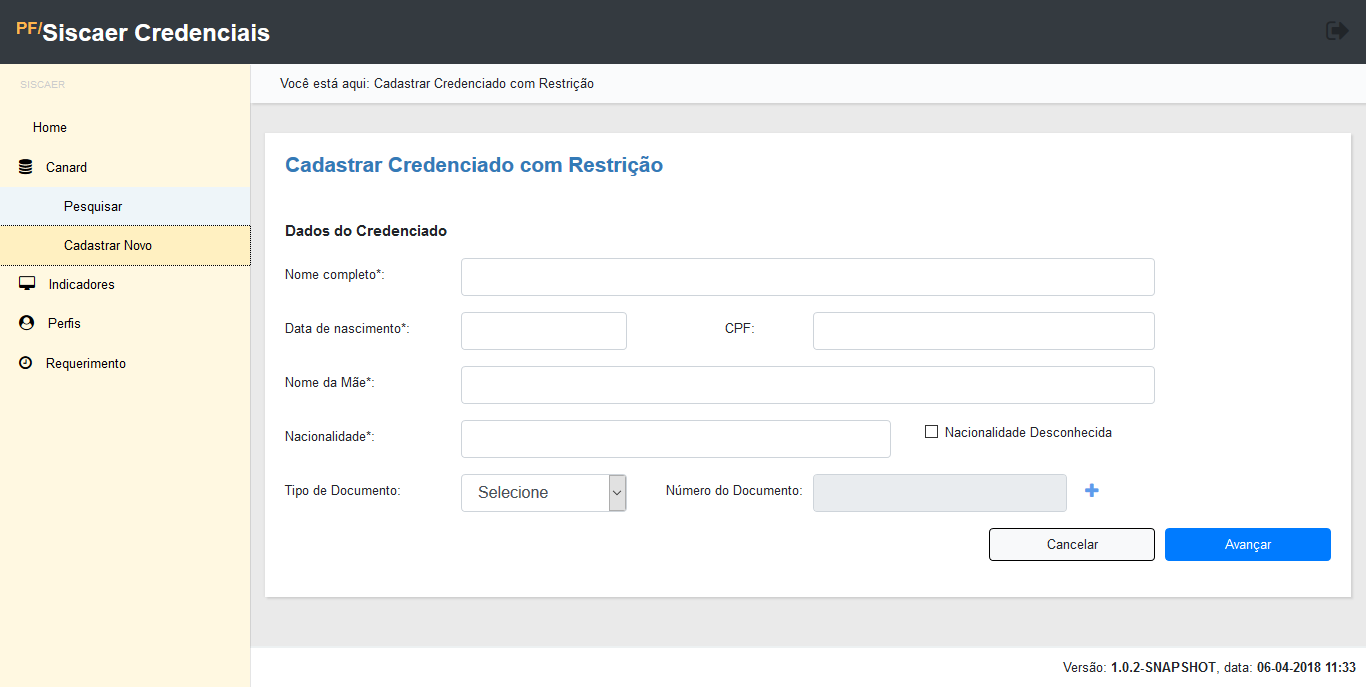
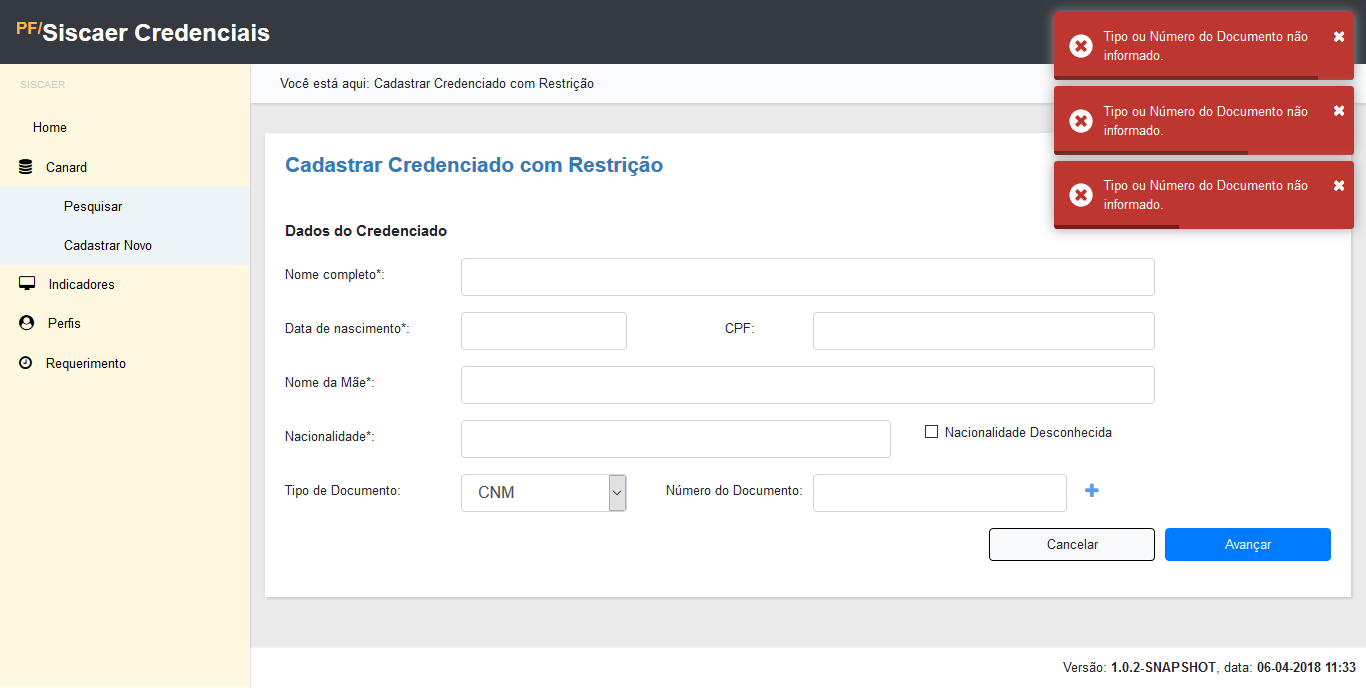
#Automacao de Testes - #Login - #Pesquisar - #Construcao Cadastrar - #versao 1.0.2

Changed region(s): [[0.7687, 0.0, 1.0, 0.3333], [0.0, 0.303, 0.1845, 0.3939], [0.3382, 0.697, 0.3997, 0.7273]]

diff --git a/logs/features.html b/logs/features.html
@@ -467,18 +467,5 @@ function makeRed(element_id) {
 function makeYellow(element_id) {
   $('#'+element_id).css('background', '#FAF834');
   $('#'+element_id).css('color', '#000000');
-}</script></head><body><!-- Step count 0--><div class="cucumber"><div id="cucumber-header"><div id="label"><h1>Cucumber Features</h1></div><div id="summary"><p id="totals"></p><p id="duration"></p><div id="expand-collapse"><p id="expander">Expand All</p><p id="collapser">Collapse All</p></div></div></div><div class="feature"><pre class="comment"># language: pt<br/></pre><span class="tag">@logout</span> <span class="tag">@login</span><h2><span class="val">Funcionalidade: Cadastrar</span></h2><p class="narrative"></p><div class="background"><h3 id="background_0"><span class="keyword">Contexto</span> <span class="val">Sistema Logado</span></h3><ol><li id='' class='step passed'><div class="step_name"><span class="keyword">Dado </span><span class="step val">que eu estou logado como <span class="param">&quot;juliana.jp&quot;</span> e <span class="param">&#39;ctidpf&#39;</span></span></div><div class="step_file"><span>features/step_definitions/visualizar_dados.rb:1</span></div></li> <script type="text/javascript">moveProgressBar('100.0');</script></ol></div><div class='scenario'><span class="tag">@cadastrar</span><span class="scenario_file">features/specs/cadastrar.feature:12</span><h3 id="scenario_1"><span class="keyword">Cenario:</span> <span class="val">Cadastrar candidatos no Canard</span></h3><ol><li id='' class='step passed'><div class="step_name"><span class="keyword">Quando </span><span class="step val">eu estou no formulario cadastro</span></div><div class="step_file"><span>features/step_definitions/cadastrar.rb:1</span></div></li><li class="step message">Deu bom ....</li> <script type="text/javascript">moveProgressBar('100.0');</script><span class="embed"><a href="" onclick="img=document.getElementById('img_1'); img.style.display = (img.style.display == 'none' ? 'block' : 'none');return false">Clique aqui para ver o print da tela</a><br>&nbsp;
-          <img id="img_1" style="display: none" src="shots/cadastrar-candidatos-no-canard.png"/></span></ol></div></div><div class="feature"><pre class="comment"># language: pt<br/></pre><span class="tag">@logout</span> <span class="tag">@login</span><h2><span class="val">Funcionalidade: Login</span></h2><p class="narrative"></p><div class='scenario'><span class="tag">@logar_sucesso</span><span class="scenario_file">features/specs/login.feature:9</span><h3 id="scenario_2"><span class="keyword">Cenario:</span> <span class="val">Logar o Sistema SISCAER com Sucesso</span></h3><ol><li id='' class='step passed'><div class="step_name"><span class="keyword">Dado </span><span class="step val">que estou na pagina de login do sistema</span></div><div class="step_file"><span>features/step_definitions/login.rb:1</span></div></li> <script type="text/javascript">moveProgressBar('100.0');</script><li id='' class='step passed'><div class="step_name"><span class="keyword">Quando </span><span class="step val">eu informo um <span class="param">&#39;juliana.jp&#39;</span> e <span class="param">&#39;ctidpf&#39;</span></span></div><div class="step_file"><span>features/step_definitions/login.rb:5</span></div></li> <script type="text/javascript">moveProgressBar('100.0');</script><li id='' class='step passed'><div class="step_name"><span class="keyword">Entao </span><span class="step val">vejo <span class="param">&quot;Bem vindo ao Siscaer Credenciais!&quot;</span></span></div><div class="step_file"><span>features/step_definitions/login.rb:10</span></div></li> <script type="text/javascript">moveProgressBar('100.0');</script><span class="embed"><a href="" onclick="img=document.getElementById('img_2'); img.style.display = (img.style.display == 'none' ? 'block' : 'none');return false">Clique aqui para ver o print da tela</a><br>&nbsp;
-          <img id="img_2" style="display: none" src="shots/logar-o-sistema-siscaer-com-sucesso.png"/></span></ol></div></div><div class="feature"><pre class="comment"># language: pt<br/></pre><span class="tag">@logout</span> <span class="tag">@pesquisar</span> <span class="tag">@gl</span> <span class="tag">@gn</span><h2><span class="val">Funcionalidade: Pesquisar</span></h2><p class="narrative"></p><div class="background"><h3 id="background_2"><span class="keyword">Contexto</span> <span class="val">Sistema Logado</span></h3><ol><li id='' class='step passed'><div class="step_name"><span class="keyword">Dado </span><span class="step val">que estou logado no sistema como <span class="param">&quot;juliana.jp&quot;</span> e <span class="param">&#39;ctidpf&#39;</span></span></div><div class="step_file"><span>features/step_definitions/pesquisar.rb:1</span></div></li> <script type="text/javascript">moveProgressBar('100.0');</script></ol></div><div class='scenario'><span class="tag">@pesquisa_caractere_nome</span><span class="scenario_file">features/specs/pesquisar.feature:11</span><h3 id="scenario_3"><span class="keyword">Cenario:</span> <span class="val">Pesquisa os Candidatos Cadastrados no CANAID informando um caractere no Campo Nome Completo</span></h3><ol><li id='' class='step passed'><div class="step_name"><span class="keyword">Quando </span><span class="step val">eu insiro um caractere <span class="param">&#39;c&#39;</span> no campo Nome completo</span></div><div class="step_file"><span>features/step_definitions/pesquisar.rb:8</span></div></li> <script type="text/javascript">moveProgressBar('100.0');</script><li id='' class='step passed'><div class="step_name"><span class="keyword">Entao </span><span class="step val">vejo a seguinte <span class="param">&quot;Resultado da Pesquisa&quot;</span></span></div><div class="step_file"><span>features/step_definitions/pesquisar.rb:44</span></div></li> <script type="text/javascript">moveProgressBar('100.0');</script><span class="embed"><a href="" onclick="img=document.getElementById('img_3'); img.style.display = (img.style.display == 'none' ? 'block' : 'none');return false">Clique aqui para ver o print da tela</a><br>&nbsp;
-          <img id="img_3" style="display: none" src="shots/pesquisa-os-candidatos-cadastrados-no-canaid-informando-um-caractere-no-campo-nome-completo.png"/></span></ol></div><div class='scenario'><span class="tag">@pesquisa_nome_completo</span><span class="scenario_file">features/specs/pesquisar.feature:17</span><h3 id="scenario_4"><span class="keyword">Cenario:</span> <span class="val">Pesquisa os Candidatos Cadastrados no CANAID informando um nome no Campo Nome Completo</span></h3><ol><li id='' class='step passed'><div class="step_name"><span class="keyword">Quando </span><span class="step val">eu insiro um nome <span class="param">&#39;IGOR NOAH GONÇALVES&#39;</span> no campo Nome Completo</span></div><div class="step_file"><span>features/step_definitions/pesquisar.rb:12</span></div></li> <script type="text/javascript">moveProgressBar('100.0');</script><li id='' class='step passed'><div class="step_name"><span class="keyword">Entao </span><span class="step val">vejo o nome Completo <span class="param">&#39;IGOR NOAH GONÇALVES&#39;</span></span></div><div class="step_file"><span>features/step_definitions/pesquisar.rb:16</span></div></li> <script type="text/javascript">moveProgressBar('100.0');</script><span class="embed"><a href="" onclick="img=document.getElementById('img_4'); img.style.display = (img.style.display == 'none' ? 'block' : 'none');return false">Clique aqui para ver o print da tela</a><br>&nbsp;
-          <img id="img_4" style="display: none" src="shots/pesquisa-os-candidatos-cadastrados-no-canaid-informando-um-nome-no-campo-nome-completo.png"/></span></ol></div><div class='scenario'><span class="tag">@pesquisa_caractere_mae</span><span class="scenario_file">features/specs/pesquisar.feature:23</span><h3 id="scenario_5"><span class="keyword">Cenario:</span> <span class="val">Pesquisa os Candidatos Cadastrados no CANAID informando um caractere no Campo da Mae</span></h3><ol><li id='' class='step passed'><div class="step_name"><span class="keyword">Quando </span><span class="step val">eu insiro um caractere <span class="param">&#39;c&#39;</span> no Campo Mae</span></div><div class="step_file"><span>features/step_definitions/pesquisar.rb:20</span></div></li> <script type="text/javascript">moveProgressBar('100.0');</script><li id='' class='step passed'><div class="step_name"><span class="keyword">Entao </span><span class="step val">vejo a seguinte <span class="param">&quot;Resultado da Pesquisa&quot;</span></span></div><div class="step_file"><span>features/step_definitions/pesquisar.rb:44</span></div></li> <script type="text/javascript">moveProgressBar('100.0');</script><span class="embed"><a href="" onclick="img=document.getElementById('img_5'); img.style.display = (img.style.display == 'none' ? 'block' : 'none');return false">Clique aqui para ver o print da tela</a><br>&nbsp;
-          <img id="img_5" style="display: none" src="shots/pesquisa-os-candidatos-cadastrados-no-canaid-informando-um-caractere-no-campo-da-mae.png"/></span></ol></div><div class='scenario'><span class="tag">@pesquisa_mae</span><span class="scenario_file">features/specs/pesquisar.feature:29</span><h3 id="scenario_6"><span class="keyword">Cenario:</span> <span class="val">Pesquisa os Candidatos Cadastrados no CANAID informando o nome da Mae</span></h3><ol><li id='' class='step passed'><div class="step_name"><span class="keyword">Quando </span><span class="step val">eu insiro o nome <span class="param">&#39;CAROLINE REGINA&#39;</span> no Campo Mae</span></div><div class="step_file"><span>features/step_definitions/pesquisar.rb:24</span></div></li> <script type="text/javascript">moveProgressBar('100.0');</script><li id='' class='step passed'><div class="step_name"><span class="keyword">Entao </span><span class="step val">vejo o nome da mae <span class="param">&#39;CAROLINE REGINA&#39;</span></span></div><div class="step_file"><span>features/step_definitions/pesquisar.rb:28</span></div></li> <script type="text/javascript">moveProgressBar('100.0');</script><span class="embed"><a href="" onclick="img=document.getElementById('img_6'); img.style.display = (img.style.display == 'none' ? 'block' : 'none');return false">Clique aqui para ver o print da tela</a><br>&nbsp;
-          <img id="img_6" style="display: none" src="shots/pesquisa-os-candidatos-cadastrados-no-canaid-informando-o-nome-da-mae.png"/></span></ol></div><div class='scenario'><span class="tag">@pesquisa_data_nascimento</span><span class="scenario_file">features/specs/pesquisar.feature:35</span><h3 id="scenario_7"><span class="keyword">Cenario:</span> <span class="val">Pesquisa os Candidatos Cadastrados no CANAID informando uma Data Nascimento</span></h3><ol><li id='' class='step passed'><div class="step_name"><span class="keyword">Quando </span><span class="step val">eu insiro uma data de nascimento <span class="param">&#39;10/09/1996&#39;</span></span></div><div class="step_file"><span>features/step_definitions/pesquisar.rb:32</span></div></li> <script type="text/javascript">moveProgressBar('100.0');</script><li id='' class='step passed'><div class="step_name"><span class="keyword">Entao </span><span class="step val">vejo a seguinte <span class="param">&quot;Resultado da Pesquisa&quot;</span></span></div><div class="step_file"><span>features/step_definitions/pesquisar.rb:44</span></div></li> <script type="text/javascript">moveProgressBar('100.0');</script><span class="embed"><a href="" onclick="img=document.getElementById('img_7'); img.style.display = (img.style.display == 'none' ? 'block' : 'none');return false">Clique aqui para ver o print da tela</a><br>&nbsp;
-          <img id="img_7" style="display: none" src="shots/pesquisa-os-candidatos-cadastrados-no-canaid-informando-uma-data-nascimento.png"/></span></ol></div><div class='scenario'><span class="tag">@pesquisa_numero_documento</span><span class="scenario_file">features/specs/pesquisar.feature:41</span><h3 id="scenario_8"><span class="keyword">Cenario:</span> <span class="val">Pesquisa os Candidatos Cadastrados no CANAID informando um Numero de documento</span></h3><ol><li id='' class='step passed'><div class="step_name"><span class="keyword">Quando </span><span class="step val">eu insiro um numero de documento <span class="param">&#39;69839727753&#39;</span></span></div><div class="step_file"><span>features/step_definitions/pesquisar.rb:36</span></div></li> <script type="text/javascript">moveProgressBar('100.0');</script><li id='' class='step passed'><div class="step_name"><span class="keyword">Entao </span><span class="step val">vejo a seguinte <span class="param">&quot;Resultado da Pesquisa&quot;</span></span></div><div class="step_file"><span>features/step_definitions/pesquisar.rb:44</span></div></li> <script type="text/javascript">moveProgressBar('100.0');</script><span class="embed"><a href="" onclick="img=document.getElementById('img_8'); img.style.display = (img.style.display == 'none' ? 'block' : 'none');return false">Clique aqui para ver o print da tela</a><br>&nbsp;
-          <img id="img_8" style="display: none" src="shots/pesquisa-os-candidatos-cadastrados-no-canaid-informando-um-numero-de-documento.png"/></span></ol></div><div class='scenario'><span class="tag">@pesquisa_aeroporto_vinculado</span><span class="scenario_file">features/specs/pesquisar.feature:47</span><h3 id="scenario_9"><span class="keyword">Cenario:</span> <span class="val">Pesquisa os Candidatos Cadastrados no CANAID informando o nome do Aeroporto Vinculado</span></h3><ol><li id='' class='step passed'><div class="step_name"><span class="keyword">Quando </span><span class="step val">eu insiro o nome do aeroporto <span class="param">&#39;Curitiba&#39;</span></span></div><div class="step_file"><span>features/step_definitions/pesquisar.rb:40</span></div></li> <script type="text/javascript">moveProgressBar('100.0');</script><li id='' class='step passed'><div class="step_name"><span class="keyword">Entao </span><span class="step val">vejo a seguinte <span class="param">&quot;Resultado da Pesquisa&quot;</span></span></div><div class="step_file"><span>features/step_definitions/pesquisar.rb:44</span></div></li> <script type="text/javascript">moveProgressBar('100.0');</script><span class="embed"><a href="" onclick="img=document.getElementById('img_9'); img.style.display = (img.style.display == 'none' ? 'block' : 'none');return false">Clique aqui para ver o print da tela</a><br>&nbsp;
-          <img id="img_9" style="display: none" src="shots/pesquisa-os-candidatos-cadastrados-no-canaid-informando-o-nome-do-aeroporto-vinculado.png"/></span></ol></div></div><div class="feature"><pre class="comment"># language: pt<br/></pre><span class="tag">@logout</span> <span class="tag">@visualizar</span><h2><span class="val">Funcionalidade: Visualização</span></h2><p class="narrative"></p><div class="background"><h3 id="background_9"><span class="keyword">Contexto</span> <span class="val">Sistema Logado</span></h3><ol><li id='' class='step passed'><div class="step_name"><span class="keyword">Dado </span><span class="step val">que eu estou logado como <span class="param">&quot;juliana.jp&quot;</span> e <span class="param">&#39;ctidpf&#39;</span></span></div><div class="step_file"><span>features/step_definitions/visualizar_dados.rb:1</span></div></li> <script type="text/javascript">moveProgressBar('100.0');</script></ol></div><div class='scenario'><span class="tag">@visualizar_dados_usuario_cadastrato</span><span class="scenario_file">features/specs/visualizar_dados.feature:13</span><h3 id="scenario_10"><span class="keyword">Cenario:</span> <span class="val">Visualizar os usuários cadastrados no Sistema</span></h3><ol><li id='' class='step passed'><div class="step_name"><span class="keyword">Quando </span><span class="step val">eu insiro o nome do <span class="param">&#39;IGOR NOAH GONÇALVES&#39;</span></span></div><div class="step_file"><span>features/step_definitions/visualizar_dados.rb:8</span></div></li> <script type="text/javascript">moveProgressBar('100.0');</script><li id='' class='step passed'><div class="step_name"><span class="keyword">Entao </span><span class="step val">clico na lupa para pesquisar</span></div><div class="step_file"><span>features/step_definitions/visualizar_dados.rb:12</span></div></li> <script type="text/javascript">moveProgressBar('100.0');</script><li id='' class='step passed'><div class="step_name"><span class="keyword">Entao </span><span class="step val">eu vejo o nome cadastrado <span class="param">&#39;IGOR NOAH GONÇALVES&#39;</span></span></div><div class="step_file"><span>features/step_definitions/visualizar_dados.rb:16</span></div></li> <script type="text/javascript">moveProgressBar('100.0');</script><span class="embed"><a href="" onclick="img=document.getElementById('img_10'); img.style.display = (img.style.display == 'none' ? 'block' : 'none');return false">Clique aqui para ver o print da tela</a><br>&nbsp;
-          <img id="img_10" style="display: none" src="shots/visualizar-os-usuários-cadastrados-no-sistema.png"/></span></ol></div><div class='scenario'><span class="tag">@visualizar_cancelar</span><span class="scenario_file">features/specs/visualizar_dados.feature:19</span><h3 id="scenario_11"><span class="keyword">Cenario:</span> <span class="val">Cancelar o detalhamento dos usuários cadastrados</span></h3><ol><li id='' class='step passed'><div class="step_name"><span class="keyword">Quando </span><span class="step val">eu estou verificando os dados do usuario <span class="param">&#39;IGOR NOAH GONÇALVES&#39;</span></span></div><div class="step_file"><span>features/step_definitions/visualizar_dados.rb:20</span></div></li> <script type="text/javascript">moveProgressBar('100.0');</script><li id='' class='step passed'><div class="step_name"><span class="keyword">Entao </span><span class="step val">eu clico no botao Cancelar a visualizacai dos dados</span></div><div class="step_file"><span>features/step_definitions/visualizar_dados.rb:25</span></div></li> <script type="text/javascript">moveProgressBar('100.0');</script><li id='' class='step passed'><div class="step_name"><span class="keyword">Entao </span><span class="step val">vejo a menssagem <span class="param">&#39;Você está aqui: Pesquisar&#39;</span></span></div><div class="step_file"><span>features/step_definitions/visualizar_dados.rb:29</span></div></li> <script type="text/javascript">moveProgressBar('100.0');</script><span class="embed"><a href="" onclick="img=document.getElementById('img_11'); img.style.display = (img.style.display == 'none' ? 'block' : 'none');return false">Clique aqui para ver o print da tela</a><br>&nbsp;
-          <img id="img_11" style="display: none" src="shots/cancelar-o-detalhamento-dos-usuários-cadastrados.png"/></span></ol></div><div class='scenario'><span class="tag">@visualizar_ocorrencias</span><span class="scenario_file">features/specs/visualizar_dados.feature:25</span><h3 id="scenario_12"><span class="keyword">Cenario:</span> <span class="val">Visualizar as ocorrencias dos usuarios cadastrados</span></h3><ol><li id='' class='step passed'><div class="step_name"><span class="keyword">Quando </span><span class="step val">eu estou verificando os dados do usuario <span class="param">&#39;IGOR NOAH GONÇALVES&#39;</span></span></div><div class="step_file"><span>features/step_definitions/visualizar_dados.rb:20</span></div></li> <script type="text/javascript">moveProgressBar('100.0');</script><li id='' class='step passed'><div class="step_name"><span class="keyword">Entao </span><span class="step val">eu clico no botao Visualiar Oorrencias</span></div><div class="step_file"><span>features/step_definitions/visualizar_dados.rb:33</span></div></li> <script type="text/javascript">moveProgressBar('100.0');</script><li id='' class='step passed'><div class="step_name"><span class="keyword">Entao </span><span class="step val">vejo a seguinte menssagem <span class="param">&#39;Visualizar Credenciado com Restrição&#39;</span></span></div><div class="step_file"><span>features/step_definitions/visualizar_dados.rb:37</span></div></li> <script type="text/javascript">moveProgressBar('100.0');</script><span class="embed"><a href="" onclick="img=document.getElementById('img_12'); img.style.display = (img.style.display == 'none' ? 'block' : 'none');return false">Clique aqui para ver o print da tela</a><br>&nbsp;
-          <img id="img_12" style="display: none" src="shots/visualizar-as-ocorrencias-dos-usuarios-cadastrados.png"/></span></ol></div><div class='scenario'><span class="tag">@visualizar_ocorrencias_iteracao</span><span class="scenario_file">features/specs/visualizar_dados.feature:31</span><h3 id="scenario_13"><span class="keyword">Cenario:</span> <span class="val">Visualizar as ocorrencias dos usuarios cadastrados iteragindo</span></h3><ol><li id='' class='step passed'><div class="step_name"><span class="keyword">Quando </span><span class="step val">eu estou verificando os dados do usuario <span class="param">&#39;IGOR NOAH GONÇALVES&#39;</span></span></div><div class="step_file"><span>features/step_definitions/visualizar_dados.rb:20</span></div></li> <script type="text/javascript">moveProgressBar('100.0');</script><li id='' class='step passed'><div class="step_name"><span class="keyword">Entao </span><span class="step val">eu clico no botao acao</span></div><div class="step_file"><span>features/step_definitions/visualizar_dados.rb:41</span></div></li> <script type="text/javascript">moveProgressBar('100.0');</script><li id='' class='step passed'><div class="step_name"><span class="keyword">Entao </span><span class="step val">e vejo a seguinte menssagem <span class="param">&#39;Dados do Credenciado&#39;</span></span></div><div class="step_file"><span>features/step_definitions/visualizar_dados.rb:46</span></div></li> <script type="text/javascript">moveProgressBar('100.0');</script><span class="embed"><a href="" onclick="img=document.getElementById('img_13'); img.style.display = (img.style.display == 'none' ? 'block' : 'none');return false">Clique aqui para ver o print da tela</a><br>&nbsp;
-          <img id="img_13" style="display: none" src="shots/visualizar-as-ocorrencias-dos-usuarios-cadastrados-iteragindo.png"/></span></ol></div><div class='scenario'><span class="tag">@visualizar_ocorrencias_fechar</span><span class="scenario_file">features/specs/visualizar_dados.feature:37</span><h3 id="scenario_14"><span class="keyword">Cenario:</span> <span class="val">Fechar o campo de Visao das ocorrencias dos usuarios cadastrados</span></h3><ol><li id='' class='step passed'><div class="step_name"><span class="keyword">Quando </span><span class="step val">estou verificando os dados do usuario <span class="param">&#39;IGOR NOAH GONÇALVES&#39;</span> e clico no botao fechar</span></div><div class="step_file"><span>features/step_definitions/visualizar_dados.rb:50</span></div></li> <script type="text/javascript">moveProgressBar('100.0');</script><li id='' class='step passed'><div class="step_name"><span class="keyword">Entao </span><span class="step val">vejo a seguinte menssagem <span class="param">&#39;Pesquisar&#39;</span></span></div><div class="step_file"><span>features/step_definitions/visualizar_dados.rb:37</span></div></li> <script type="text/javascript">moveProgressBar('100.0');</script><span class="embed"><a href="" onclick="img=document.getElementById('img_14'); img.style.display = (img.style.display == 'none' ? 'block' : 'none');return false">Clique aqui para ver o print da tela</a><br>&nbsp;
-          <img id="img_14" style="display: none" src="shots/fechar-o-campo-de-visao-das-ocorrencias-dos-usuarios-cadastrados.png"/></span></ol></div></div><script type="text/javascript">document.getElementById('duration').innerHTML = "Finished in <strong>3m44.499s seconds</strong>";</script><script type="text/javascript">document.getElementById('totals').innerHTML = "14 scenarios (14 passed)<br />45 steps (45 passed)";</script></div></body></html>
+}</script></head><body><!-- Step count 0--><div class="cucumber"><div id="cucumber-header"><div id="label"><h1>Cucumber Features</h1></div><div id="summary"><p id="totals"></p><p id="duration"></p><div id="expand-collapse"><p id="expander">Expand All</p><p id="collapser">Collapse All</p></div></div></div><div class="feature"><pre class="comment"># language: pt<br/></pre><span class="tag">@logout</span> <span class="tag">@cadastrar</span><h2><span class="val">Funcionalidade: Cadastrar</span></h2><p class="narrative"></p><div class="background"><h3 id="background_0"><span class="keyword">Contexto</span> <span class="val">Sistema Logado</span></h3><ol><li id='' class='step passed'><div class="step_name"><span class="keyword">Dado </span><span class="step val">que eu estou logado como <span class="param">&quot;juliana.jp&quot;</span> e <span class="param">&#39;ctidpf&#39;</span></span></div><div class="step_file"><span>features/step_definitions/visualizar_dados.rb:1</span></div></li> <script type="text/javascript">moveProgressBar('100.0');</script></ol></div><div class='scenario'><span class="tag">@cadastrar_sucesso</span><span class="scenario_file">features/specs/cadastrar.feature:12</span><h3 id="scenario_1"><span class="keyword">Cenario:</span> <span class="val">Cadastrar candidatos no Canard</span></h3><ol><li id='' class='step passed'><div class="step_name"><span class="keyword">Quando </span><span class="step val">eu estou no formulario cadastro</span></div><div class="step_file"><span>features/step_definitions/cadastrar.rb:1</span></div></li> <script type="text/javascript">moveProgressBar('100.0');</script><span class="embed"><a href="" onclick="img=document.getElementById('img_1'); img.style.display = (img.style.display == 'none' ? 'block' : 'none');return false">Clique aqui para ver o print da tela</a><br>&nbsp;
+          <img id="img_1" style="display: none" src="shots/cadastrar-candidatos-no-canard.png"/></span></ol></div></div><script type="text/javascript">document.getElementById('duration').innerHTML = "Finished in <strong>0m27.096s seconds</strong>";</script><script type="text/javascript">document.getElementById('totals').innerHTML = "1 scenario (1 passed)<br />2 steps (2 passed)";</script></div></body></html>

diff --git a/features/support/pages/cadastrar_page.rb b/features/support/pages/cadastrar_page.rb
@@ -4,25 +4,26 @@ class Cadastrar < SitePrism::Page
         @login = Login.new
     end
 
+    #Elementos: Botões Mapeados
     element :canard , '.list-unstyled > li:nth-child(2) > a:nth-child(1) > span:nth-child(1)'
     element :cadastro, '#Canard > li:nth-child(2) > a:nth-child(1) > span:nth-child(1)'
     element :btn_avancar, '#avancar'
     element :btn_cancelar, '#cancelar'
+    element :adcionar_doc, '#adicionarDocumento'
+    
+    #Elementos: CheckBox Mapeados
+    element :nacionalidade_desconhecida, '#nacionalidadeDesconhecida'
 
+    #Elementos: Inputs Mapeados
     element :nome, '#nome'
     element :data_nascimento, '#dataNascimento'
     element :cpf, '#cpf'
     element :nome_mae, '#nomeMae'
     element :nacionalidade, '#nacionalidade'
-   
-    element :tipo_doc, '#tipoDocumento'
-
-    element :nacionalidade_desconhecida, '#nacionalidadeDesconhecida'
-    element :adcionar_doc, '#adicionarDocumento'
     element :numero_doc, '#numeroDocumento'
     element :auto_complet, '.ui-autocomplete-panel'
     
-    #navegação menu
+    #navegação: menu
     def menu_canard
         canard.click
     end
@@ -31,7 +32,7 @@ class Cadastrar < SitePrism::Page
         cadastro.click
     end
 
-    #botões de ações
+    #Interação: botões de ações
     def avancar
         btn_avancar.click
     end
@@ -40,8 +41,13 @@ class Cadastrar < SitePrism::Page
         btn_cancelar.click
     end
 
+    def adicionar_documentos (argumento)
+        adcionar_doc.click
+        doc_selecao argumento
+    end
+
     #metodo de acao
-    def cadastrar (dado1, dado2, dado3, dado4, dado5, dado6, dado7, dado8, dado9)
+    def cadastrar (dado1, dado2, dado3, dado4, dado5, dado6, dado7, dado8)
         nome.set dado1
         data_nascimento.set dado2
         cpf.set dado3
@@ -53,19 +59,30 @@ class Cadastrar < SitePrism::Page
                 nacionalidade.set dados6
                 auto_complet.click
        end
-      
-
     end
 
    
-  #   def doc_selecao (dado7)
-  #      doc = dado7
-  #      doc = doc.upcase
-  #      tipo_doc.select_option
-  #      puts from tipo_doc.value
-  #  end
-  # 'option.ng-star-inserted:nth-child(2)'
-  # 'option.ng-star-inserted:nth-child(3)'
-  # 'option.ng-star-inserted:nth-child(4)'
-  # 'option.ng-star-inserted:nth-child(5)' 
+    def doc_selecao (arg)
+        doc = arg.upcase
+       @op = ""
+
+      if doc.eql? "PASSAPORTE"
+                find('option.ng-star-inserted:nth-child(2)').select_option
+                @op = "Deu Bom"
+            elsif doc.eql? "RG"
+                find('option.ng-star-inserted:nth-child(3)').select_option
+                @op = "Deu Bom"
+            elsif doc.eql? "CNM"
+                find('option.ng-star-inserted:nth-child(4)').select_option
+                @op = "Deu Bom" 
+            elsif doc.eql? "DNI"
+                find('option.ng-star-inserted:nth-child(5)').select_option
+                @op = "Deu Bom" 
+            else
+                @op = "Deu ruim"
+      end
+        puts "O teste #{@op} !!!!!!"
+        puts "---------------------------------"
+   end
+   
 end

diff --git a/features/step_definitions/cadastrar.rb b/features/step_definitions/cadastrar.rb
@@ -2,10 +2,14 @@ Quando("eu estou no formulario cadastro") do
      @cadastro = Cadastrar.new
      @cadastro.menu_canard
      @cadastro.menu_cadastro
-     puts 'Deu bom ....'
-     #arg = 'passaport'
-     #@cadastro.doc_selecao arg
-   
+     arg = 'passaporte'
+     @cadastro.doc_selecao arg
+     arg = 'rg'
+     @cadastro.adicionar_documentos arg
+     arg = 'cnm'
+     @cadastro.adicionar_documentos arg
+     ar = 'dni'
+     @cadastro.adicionar_documentos arg
   end                                                                            
                                                                                  
 #  Entao("eu posso inserir as informacoes do candidato") do                       
